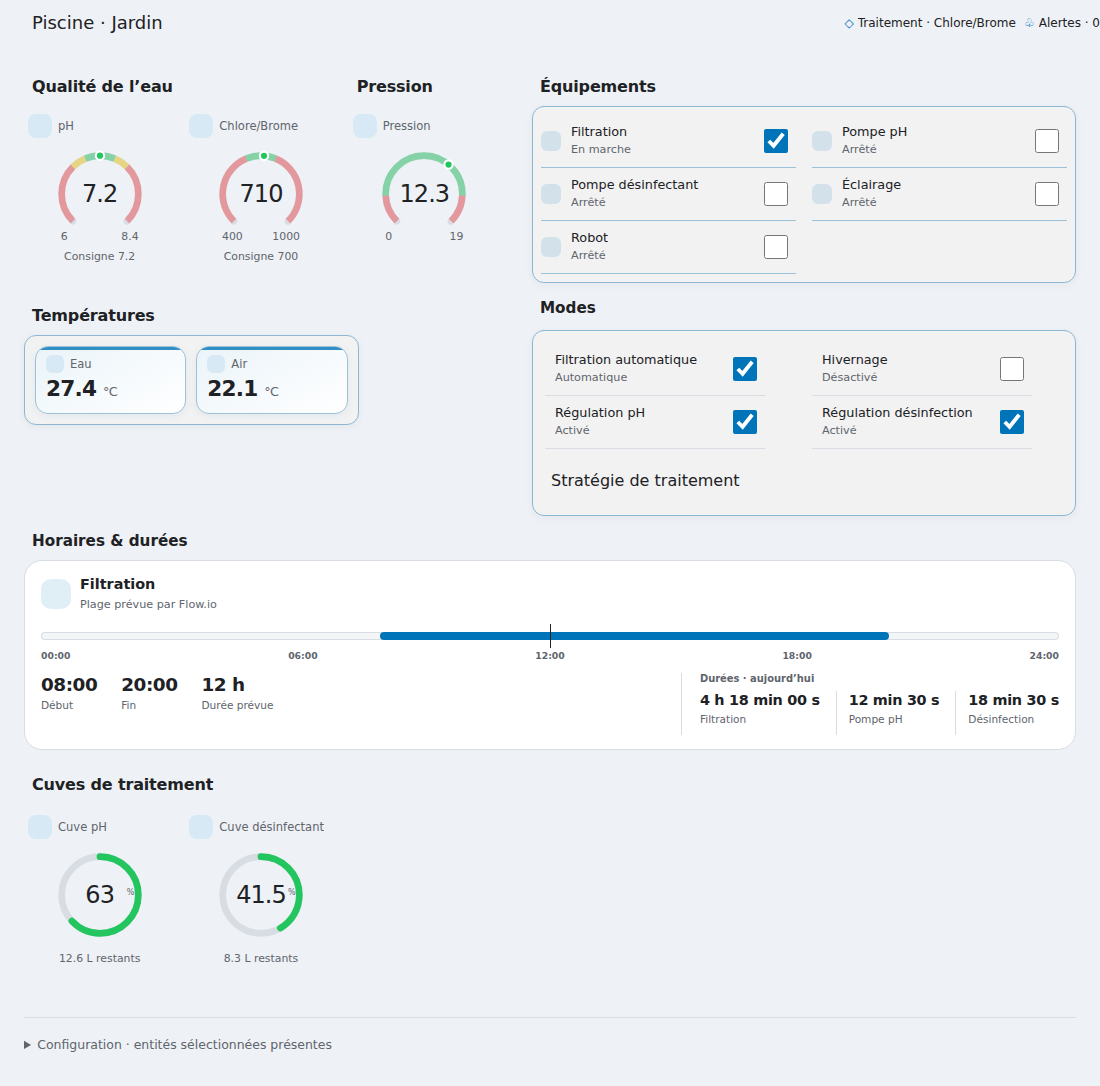
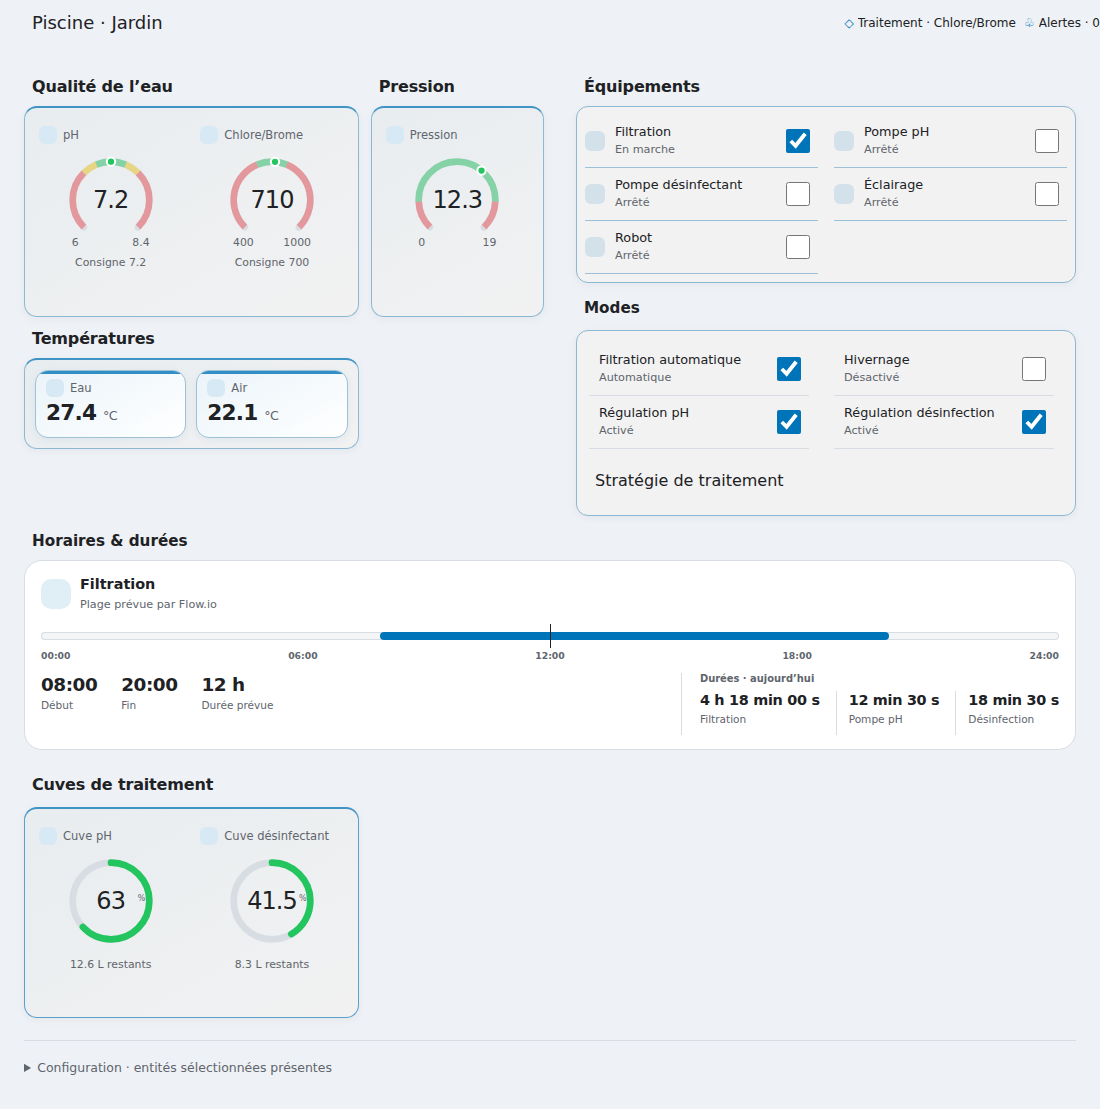
Restore section frames around pool gauges

diff --git a/e2e/visual.spec.ts b/e2e/visual.spec.ts
@@ -1,6 +1,6 @@
 import{test,expect}from'@playwright/test';
 import{preview}from'./preview';
-test('jauges sans encadrements et consignes choisies',async({page})=>{await preview(page);await expect(page.locator('[data-role=ph] flowio-gauge')).toHaveJSProperty('variant','arc');await expect(page.locator('[data-role=pressure] .marker')).toHaveCount(1);await expect(page.locator('[data-role=ph] .target-label')).toContainText('7.2');const quality=page.locator('.measurement-section[data-section=quality] .measurement-group'),gauge=page.locator('[data-role=ph]');await expect(quality).toHaveCSS('border-top-width','0px');await expect(quality).toHaveCSS('box-shadow','none');await expect(page.locator('.measurement-section[data-section=pressure] .measurement-group')).toHaveCSS('padding','0px');await expect(gauge).toHaveCSS('border-top-width','0px');await expect(gauge).toHaveCSS('box-shadow','none');expect(await quality.evaluate(el=>getComputedStyle(el).backgroundColor)).toBe('rgba(0, 0, 0, 0)');expect(await gauge.evaluate(el=>getComputedStyle(el).backgroundColor)).toBe('rgba(0, 0, 0, 0)');expect(await gauge.evaluate(el=>getComputedStyle(el,'::before').display)).toBe('none');await expect(page.locator('.grid[data-group=tanks]')).toHaveCSS('border-top-width','0px');await expect(page.locator('[data-role=ph_tank_percent]')).toHaveCSS('box-shadow','none');await expect(page.locator('[data-role=water_temperature]')).not.toHaveCSS('border-top-width','0px');await page.evaluate(()=>{const d=(window as any).demo;d.config.display.setpoints=[];d.apply();});await expect(page.locator('[data-role=ph] .target-label')).toHaveCount(0);});
+test('jauges sans cadre, avec encadrés par section et consignes choisies',async({page})=>{await preview(page);await expect(page.locator('[data-role=ph] flowio-gauge')).toHaveJSProperty('variant','arc');await expect(page.locator('[data-role=pressure] .marker')).toHaveCount(1);await expect(page.locator('[data-role=ph] .target-label')).toContainText('7.2');const quality=page.locator('.measurement-section[data-section=quality] .measurement-group'),gauge=page.locator('[data-role=ph]');await expect(quality).toHaveCSS('border-top-width','2px');await expect(quality).toHaveCSS('border-radius','13px');await expect(quality).not.toHaveCSS('box-shadow','none');await expect(page.locator('.measurement-section[data-section=pressure] .measurement-group')).toHaveCSS('border-top-width','2px');await expect(gauge).toHaveCSS('border-top-width','0px');await expect(gauge).toHaveCSS('box-shadow','none');expect(await gauge.evaluate(el=>getComputedStyle(el).backgroundColor)).toBe('rgba(0, 0, 0, 0)');expect(await gauge.evaluate(el=>getComputedStyle(el,'::before').display)).toBe('none');await expect(page.locator('.grid[data-group=tanks]')).toHaveCSS('border-top-width','2px');await expect(page.locator('.grid[data-group=tanks]')).toHaveCSS('border-radius','13px');await expect(page.locator('[data-role=ph_tank_percent]')).toHaveCSS('box-shadow','none');await expect(page.locator('[data-role=water_temperature]')).not.toHaveCSS('border-top-width','0px');await page.evaluate(()=>{const d=(window as any).demo;d.config.display.setpoints=[];d.apply();});await expect(page.locator('[data-role=ph] .target-label')).toHaveCount(0);});
 test('horaires prévus et compteurs distincts sans commande',async({page})=>{await preview(page);await expect(page.locator('[data-timing=filtration_schedule]')).toContainText('08:00');await expect(page.locator('[data-timing=filtration_schedule]')).toContainText('20:00');await expect(page.locator('[data-timing=ph_runtime]')).toContainText('12 min 30 s');await expect(page.locator('[data-timing=disinfection_runtime]')).toContainText('18 min 30 s');expect(await page.evaluate(()=>(window as any).demo.calls.length)).toBe(0);await page.evaluate(()=>{const d=(window as any).demo;delete d.hass.states['sensor.fio_data_145'];d.apply();});await expect(page.locator('[data-timing=ph_runtime]')).toContainText('Entité absente');});
 test('hors-échelle explicite et mouvement réduit',async({page})=>{await page.emulateMedia({reducedMotion:'reduce'});await preview(page);await page.evaluate(()=>{const d=(window as any).demo;d.hass.states['sensor.fio_io_psi'].state='25';d.apply();});await expect(page.locator('[data-role=pressure] flowio-gauge .outside')).toHaveText('Hors échelle');await expect(page.locator('[data-role=pressure] .reading')).toContainText('25');expect(await page.locator('[data-role=ph] .marker').evaluate(el=>getComputedStyle(el).transitionDuration)).toBe('0s');});
 test('accents issus du thème',async({page})=>{await preview(page);await page.evaluate(()=>document.documentElement.style.setProperty('--flowio-ph-color','#9b59d0'));expect(await page.locator('[data-role=ph] .icon-plate').evaluate(el=>getComputedStyle(el).color)).toBe('rgb(155, 89, 208)');});

diff --git a/dist/flowio-home-assistant-cards.js b/dist/flowio-home-assistant-cards.js
@@ -12,12 +12,12 @@ var fn=Object.defineProperty;var mn=(n,e)=>()=>(n&&(e=n(n=0)),e);var xn=(n,e)=>{
 .fio-card .measure.gauge-tile{min-height:188px;gap:6px}
 .fio-card .gauge-tile flowio-gauge{flex:none;width:var(--fio-gauge-size);max-width:100%;margin:0 auto}
 .fio-card .metric-head{gap:6px;min-height:24px}.fio-card .metric-head .icon-plate{width:24px;height:24px;border-radius:8px}.fio-card .metric-head ha-icon{--mdc-icon-size:17px}.fio-card .metric-label{font-size:.72rem;line-height:1.25}
+.fio-card .measure.gauge-tile .metric-head{min-height:18px}.fio-card .measure.gauge-tile .metric-head .icon-plate{width:18px;height:18px;border-radius:6px}.fio-card .measure.gauge-tile .metric-head ha-icon{--mdc-icon-size:15px}
 .fio-card .measurement-group{box-sizing:border-box;width:fit-content;max-width:100%;padding:10px}.fio-card .measurement-group h4{margin:0 0 8px}.fio-card .measurement-group .grid{grid-template-columns:repeat(2,minmax(0,var(--fio-tile-size)));gap:10px;justify-content:start}.fio-card [data-measurement-group=pressure] .grid{grid-template-columns:minmax(0,var(--fio-tile-size))}
-.fio-card .measurement-section[data-section=quality] .measurement-group,.fio-card .measurement-section[data-section=pressure] .measurement-group{padding:0;border:0;border-radius:0;background:transparent;box-shadow:none}
 .fio-card .measure.gauge-tile{padding:8px 4px;border:0;border-radius:0;background:transparent;box-shadow:none;overflow:visible}
 .fio-card .measure.gauge-tile::before{display:none}.fio-card .measure.gauge-tile:hover{transform:none;box-shadow:none}
 .fio-card .grid[data-group=tanks]{grid-template-columns:repeat(auto-fit,minmax(0,var(--fio-tile-size)));gap:10px;justify-content:start}
-.fio-card .body .grid[data-group=tanks]{padding:0;border:0;border-radius:0;background:transparent;box-shadow:none}
+.fio-card .measurement-section .measurement-group,.fio-card .body .grid[data-group=tanks]{border-top:2px solid color-mix(in srgb,var(--fio-water) 55%,var(--fio-trim));border-radius:13px;background:linear-gradient(150deg,color-mix(in srgb,var(--fio-water) 4%,var(--fio-panel)),var(--fio-panel))}
 @container(max-width:700px){:host>.hero{padding-inline-start:16px}.fio-card{--fio-tile-size:min(160px,calc((100cqi - 88px)/2))}}
 .fio-card .equipment-pane{container-type:inline-size}.fio-card .equipment-pane .equipment-grid{grid-template-columns:repeat(2,minmax(0,1fr));gap:0 16px}
 .fio-card .control{box-sizing:border-box;min-height:53px;padding:4px 0;gap:10px;border:0;border-bottom:1px solid color-mix(in srgb,var(--divider-color) 72%,var(--fio-accent));border-radius:0;background:transparent;box-shadow:none}

diff --git a/src/card-styles.ts b/src/card-styles.ts
@@ -12,12 +12,12 @@ export const poolStyles=css`
 .fio-card .measure.gauge-tile{min-height:188px;gap:6px}
 .fio-card .gauge-tile flowio-gauge{flex:none;width:var(--fio-gauge-size);max-width:100%;margin:0 auto}
 .fio-card .metric-head{gap:6px;min-height:24px}.fio-card .metric-head .icon-plate{width:24px;height:24px;border-radius:8px}.fio-card .metric-head ha-icon{--mdc-icon-size:17px}.fio-card .metric-label{font-size:.72rem;line-height:1.25}
+.fio-card .measure.gauge-tile .metric-head{min-height:18px}.fio-card .measure.gauge-tile .metric-head .icon-plate{width:18px;height:18px;border-radius:6px}.fio-card .measure.gauge-tile .metric-head ha-icon{--mdc-icon-size:15px}
 .fio-card .measurement-group{box-sizing:border-box;width:fit-content;max-width:100%;padding:10px}.fio-card .measurement-group h4{margin:0 0 8px}.fio-card .measurement-group .grid{grid-template-columns:repeat(2,minmax(0,var(--fio-tile-size)));gap:10px;justify-content:start}.fio-card [data-measurement-group=pressure] .grid{grid-template-columns:minmax(0,var(--fio-tile-size))}
-.fio-card .measurement-section[data-section=quality] .measurement-group,.fio-card .measurement-section[data-section=pressure] .measurement-group{padding:0;border:0;border-radius:0;background:transparent;box-shadow:none}
 .fio-card .measure.gauge-tile{padding:8px 4px;border:0;border-radius:0;background:transparent;box-shadow:none;overflow:visible}
 .fio-card .measure.gauge-tile::before{display:none}.fio-card .measure.gauge-tile:hover{transform:none;box-shadow:none}
 .fio-card .grid[data-group=tanks]{grid-template-columns:repeat(auto-fit,minmax(0,var(--fio-tile-size)));gap:10px;justify-content:start}
-.fio-card .body .grid[data-group=tanks]{padding:0;border:0;border-radius:0;background:transparent;box-shadow:none}
+.fio-card .measurement-section .measurement-group,.fio-card .body .grid[data-group=tanks]{border-top:2px solid color-mix(in srgb,var(--fio-water) 55%,var(--fio-trim));border-radius:13px;background:linear-gradient(150deg,color-mix(in srgb,var(--fio-water) 4%,var(--fio-panel)),var(--fio-panel))}
 @container(max-width:700px){:host>.hero{padding-inline-start:16px}.fio-card{--fio-tile-size:min(160px,calc((100cqi - 88px)/2))}}
 .fio-card .equipment-pane{container-type:inline-size}.fio-card .equipment-pane .equipment-grid{grid-template-columns:repeat(2,minmax(0,1fr));gap:0 16px}
 .fio-card .control{box-sizing:border-box;min-height:53px;padding:4px 0;gap:10px;border:0;border-bottom:1px solid color-mix(in srgb,var(--divider-color) 72%,var(--fio-accent));border-radius:0;background:transparent;box-shadow:none}
